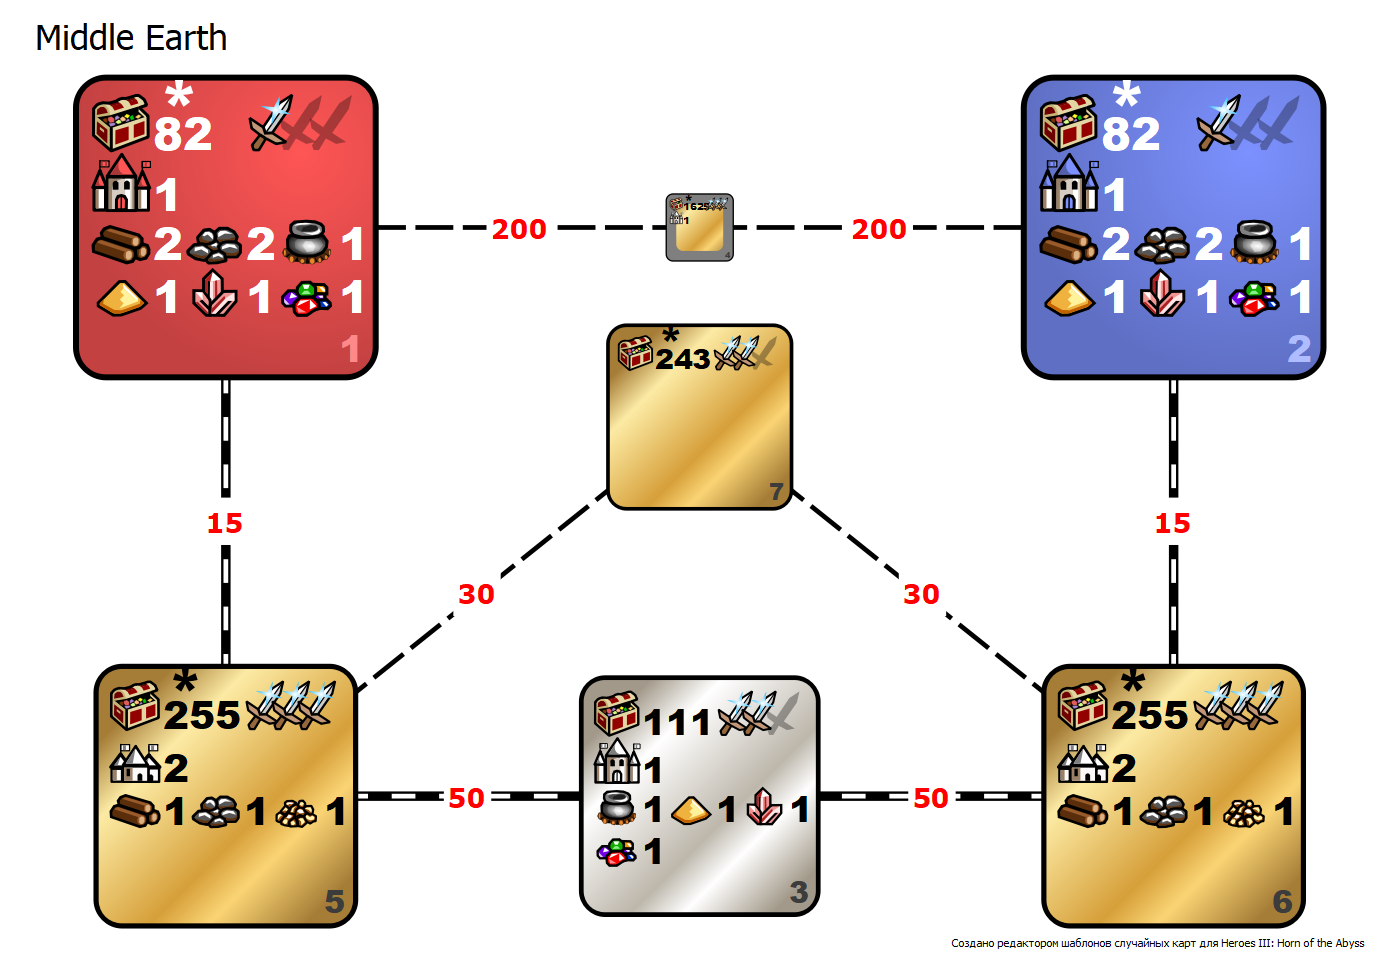
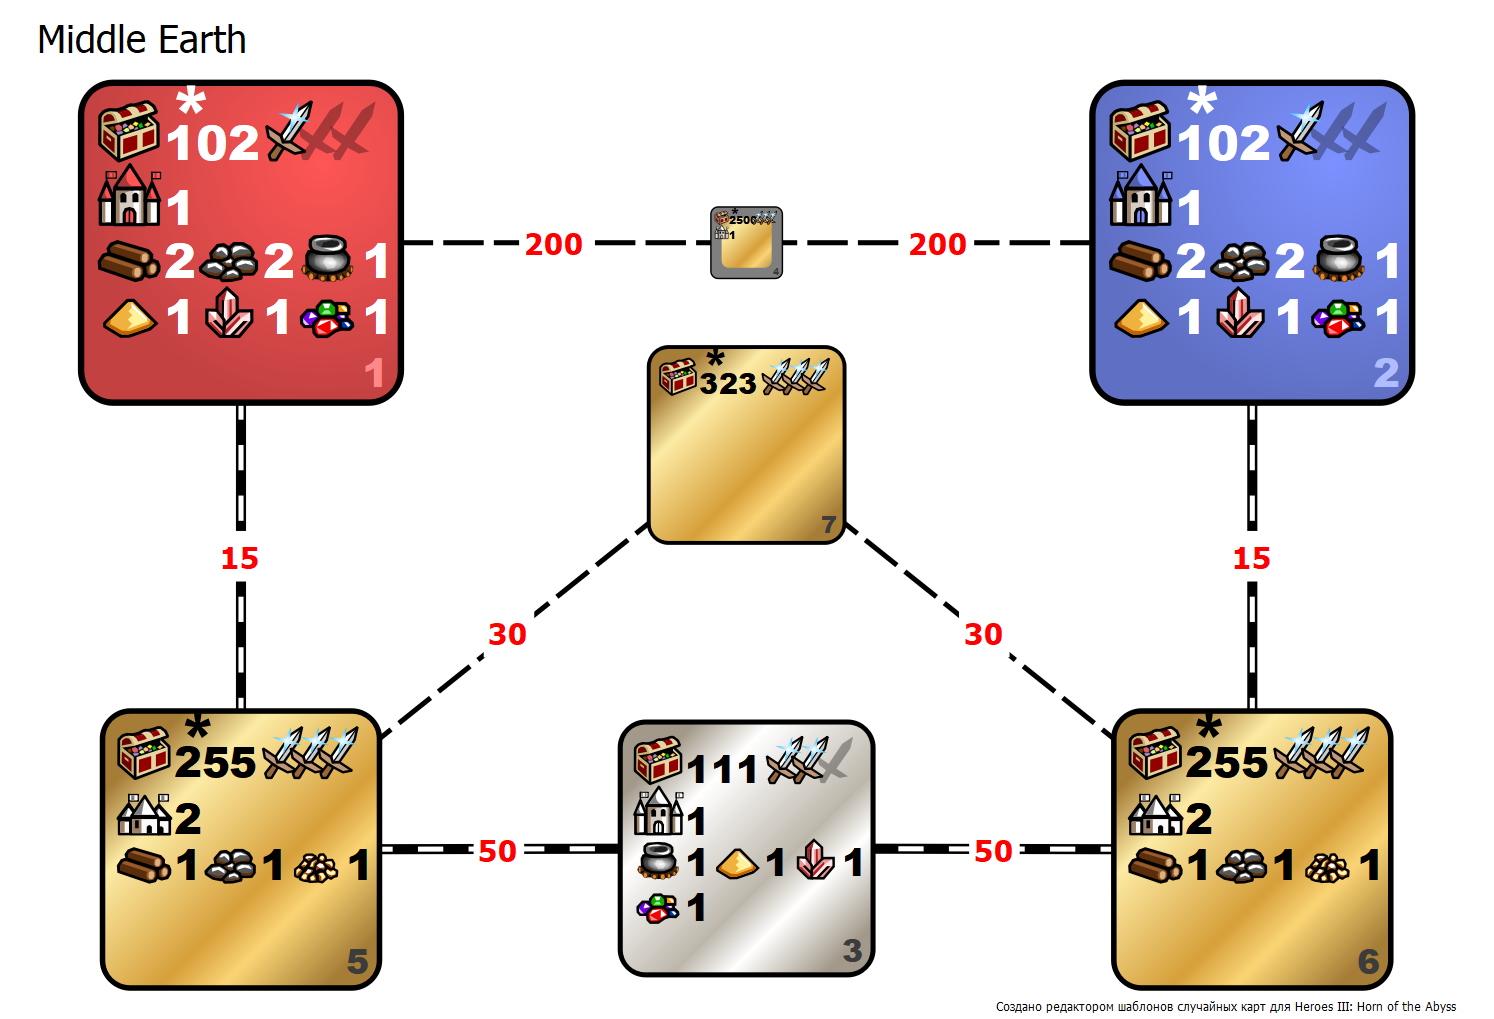
Home zone updated + rules started

diff --git a/README.md b/README.md
@@ -20,6 +20,22 @@ one knows what awaits you on that path, you may need a guide or strong army. Wel
 
 _Rules is under correction now. Coming soon..._
 
+* You have to play with 1 hero which was chosen at the beginning of game. 
+You are defeated if you lose this hero (in any way).  
+    * If two heroes are lost (disappeared) after battle the winner is the player 
+    who make the last shot (even if it was made by summoned creature or magic spell).  
+    * If battle can't be finished (f.e. if two players have army of ghosts) the 
+    winner is the player with bigger sum of characteristics (if sums are equal 
+    then by tossing a coin).  
+* Since **126** you can recruit one more hero from tavern. This actions is allowed only once, it means
+that if you lose the second hero (even if it can surrender or retreat), you have to finish the game 
+having only 1 (main) hero. The second hero **can't attack** opponent heroes and **can't be attacked**
+with opponent heroes.  
+    * Second hero can't block path on road if there is only 1 tile in width between
+any obstacles. If second hero have no more move points and blocks the route then you have to banish him
+(and never buy any other second heroes).  
+* Restarts are allowed (?) times until 112 (inclusive).
+
 ### Template
 
 ![Template schema](template.png)
